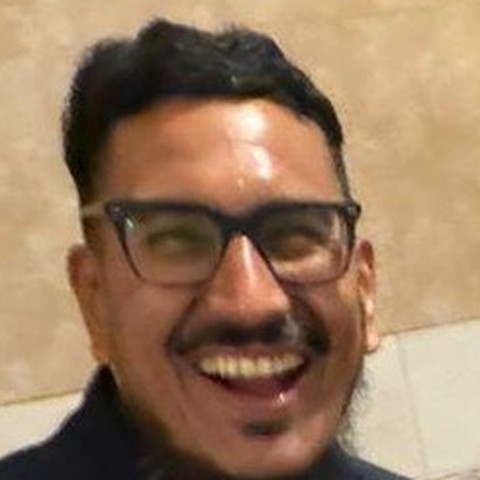
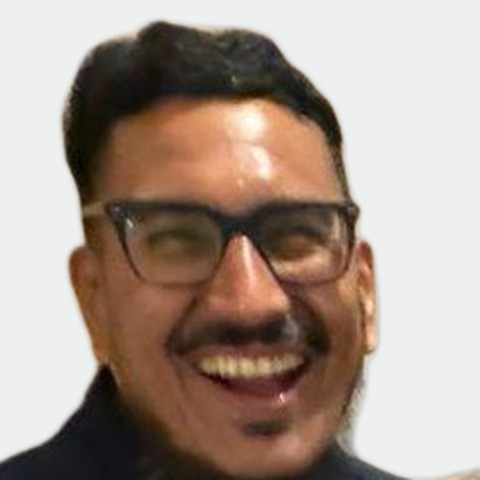
Add files via upload

diff --git a/css/styles.css b/css/styles.css
@@ -1,4 +1,4 @@
-/* We Do — web v3.29 — 2026-11-04 */
+/* We Do — web v3.30 — 2026-11-04 */
 :root{--ink:#16181D;--paper:#F4F5F3;--mint:#5EC4B0;--teal:#1A8A78;--teal-d:#136A5C;--mute-d:#A3ADAA;--mute-l:#565E5B;--mute-m:#1F3D37;
   --mono:ui-monospace,SFMono-Regular,Menlo,Consolas,monospace;
   --fg:#fff;--muted:var(--mute-d);--accent:var(--mint);--line:rgba(255,255,255,.24);--dot:rgba(255,255,255,.32);--bub-bg:#fff;--bub-fg:var(--ink);--count-bg:var(--mint);--count-fg:var(--ink);--cta-bg:var(--mint);--cta-fg:var(--ink)}
@@ -603,3 +603,15 @@ header .hbtns .lang-btn:hover,header .hbtns .lang-btn[aria-expanded=true]{backgr
 .legal-links{display:flex;flex-wrap:wrap;align-items:center}
 @media (max-width:640px){.legal{padding:12px 24px;font-size:11px}.legal i{margin:0 7px}}
 body.foot-in .pet{transform:translateY(calc(-1 * var(--foot-h,0px)))}
+/* v3.30 — footer: one line on computers (as in v3.28), two lines only on phones */
+@media (min-width:641px){.legal{flex-direction:row;align-items:center;justify-content:space-between;gap:4px 24px}}
+/* v3.30 — numbers the same size as their title, in green */
+.todo b::before{font-family:inherit;font-size:1em;font-weight:700;letter-spacing:0;vertical-align:baseline;margin-right:.45em;font-variant-numeric:tabular-nums}
+/* v3.30 — step texts centred with balanced lines (no stretched word gaps), in a compact square-ish box */
+@media (min-width:901px){.steps.five li span{text-align:center;text-align-last:auto;-webkit-hyphens:manual;hyphens:manual;text-wrap:balance;max-width:15em}}
+/* v3.30 — "Get in touch" in classic link blue */
+.tools-note .touch{color:#1F5FD1;text-decoration-color:currentColor}
+.dark .tools-note .touch{color:#7FB0FF;text-decoration-color:currentColor}
+.tools-note .touch:hover,.dark .tools-note .touch:hover{color:inherit}
+/* v3.30 — phones only: the lamp comes in big from the top right, so its light falls on the headline (base fades out below) */
+@media (max-width:640px){.lamp-stage{--lh:74vh;height:var(--lh);width:calc(var(--lh) * 1.7917);top:calc(70px - var(--lh) * .08);bottom:auto;right:auto;left:calc(66vw - var(--lh) * 1.111);-webkit-mask-image:linear-gradient(to bottom,#000 70%,transparent);mask-image:linear-gradient(to bottom,#000 70%,transparent)}}

diff --git a/js/main.js b/js/main.js
@@ -1,4 +1,4 @@
-/* We Do — web v3.29 — 2026-11-04 */
+/* We Do — web v3.30 — 2026-11-04 */
 (function () {
   var sc = document.querySelector('.scroller');
   var secs = Array.prototype.slice.call(sc.querySelectorAll('section'));
@@ -233,7 +233,8 @@
     word.style.fontSize = '';
     var r = word.getBoundingClientRect(), sr = heroSecW.getBoundingClientRect();
     var limit = Math.min(bigBox.getBoundingClientRect().right, sr.right - parseFloat(getComputedStyle(heroSecW).paddingRight));
-    if (lampStage && window.innerWidth > 640) { var L = lampStage.getBoundingClientRect(); limit = Math.min(limit, L.left + 0.62 * L.width - 28); }
+    // v3.30: keep clear of the lamp head wherever it sits level with the word (desktop, and phones since the lamp moved up)
+    if (lampStage) { var L = lampStage.getBoundingClientRect(), hT = L.top + 0.11 * L.height, hB = L.top + 0.42 * L.height; if (r.bottom > hT && r.top < hB) limit = Math.min(limit, L.left + 0.62 * L.width - (window.innerWidth > 640 ? 28 : 10)); }
     var room = (limit - r.left) * 0.97;
     if (r.width > room && room > 0) word.style.fontSize = (parseFloat(getComputedStyle(word).fontSize) * room / r.width).toFixed(1) + 'px';
   }
